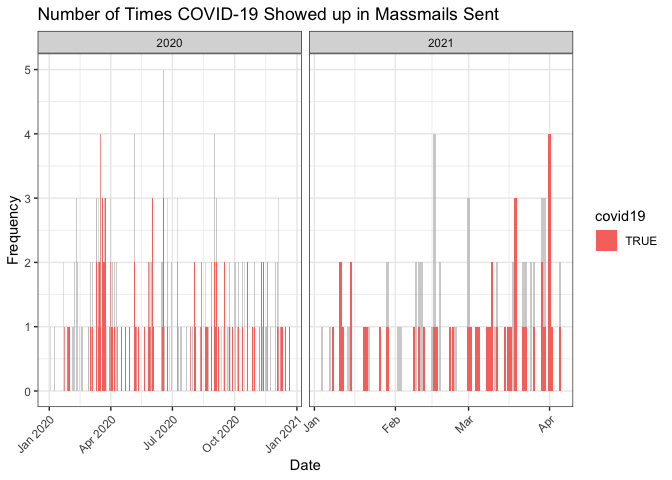
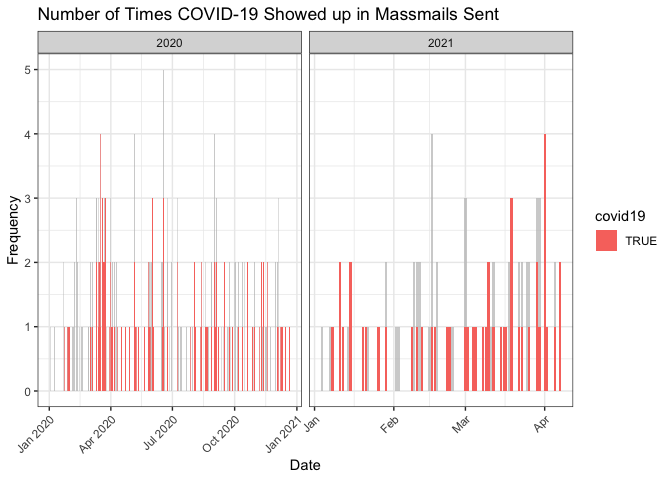
Re-build README.Rmd and Graphs

Changed region(s): [[0.5312, 0.2812, 0.8438, 0.9062], [0.7812, 0.875, 0.8438, 0.9062], [0.5625, 0.8438, 0.5938, 0.9062]]

diff --git a/README.md b/README.md
@@ -17,7 +17,7 @@ The archive may be viewed here:
 
 <https://massmail.illinois.edu/massmailArchive>
 
-Data has **1333** observations and **7** variables:
+Data has **1335** observations and **7** variables:
 
   - `datetime`: Date and time when the email was sent in the form of
     `YYYY-MM-DD HMS` with either CDT or CST.
@@ -210,16 +210,16 @@ head(most_popular_words, 10) %>%
 
 | word        | freq |
 | :---------- | ---: |
-| students    |  924 |
-| university  |  873 |
-| campus      |  832 |
-| illinois    |  572 |
-| covid       |  529 |
-| faculty     |  480 |
-| community   |  474 |
-| health      |  399 |
-| information |  399 |
-| staff       |  385 |
+| students    |  929 |
+| university  |  882 |
+| campus      |  833 |
+| illinois    |  574 |
+| covid       |  533 |
+| faculty     |  484 |
+| community   |  481 |
+| health      |  405 |
+| information |  400 |
+| staff       |  389 |
 
 #### Wordcloud
 
